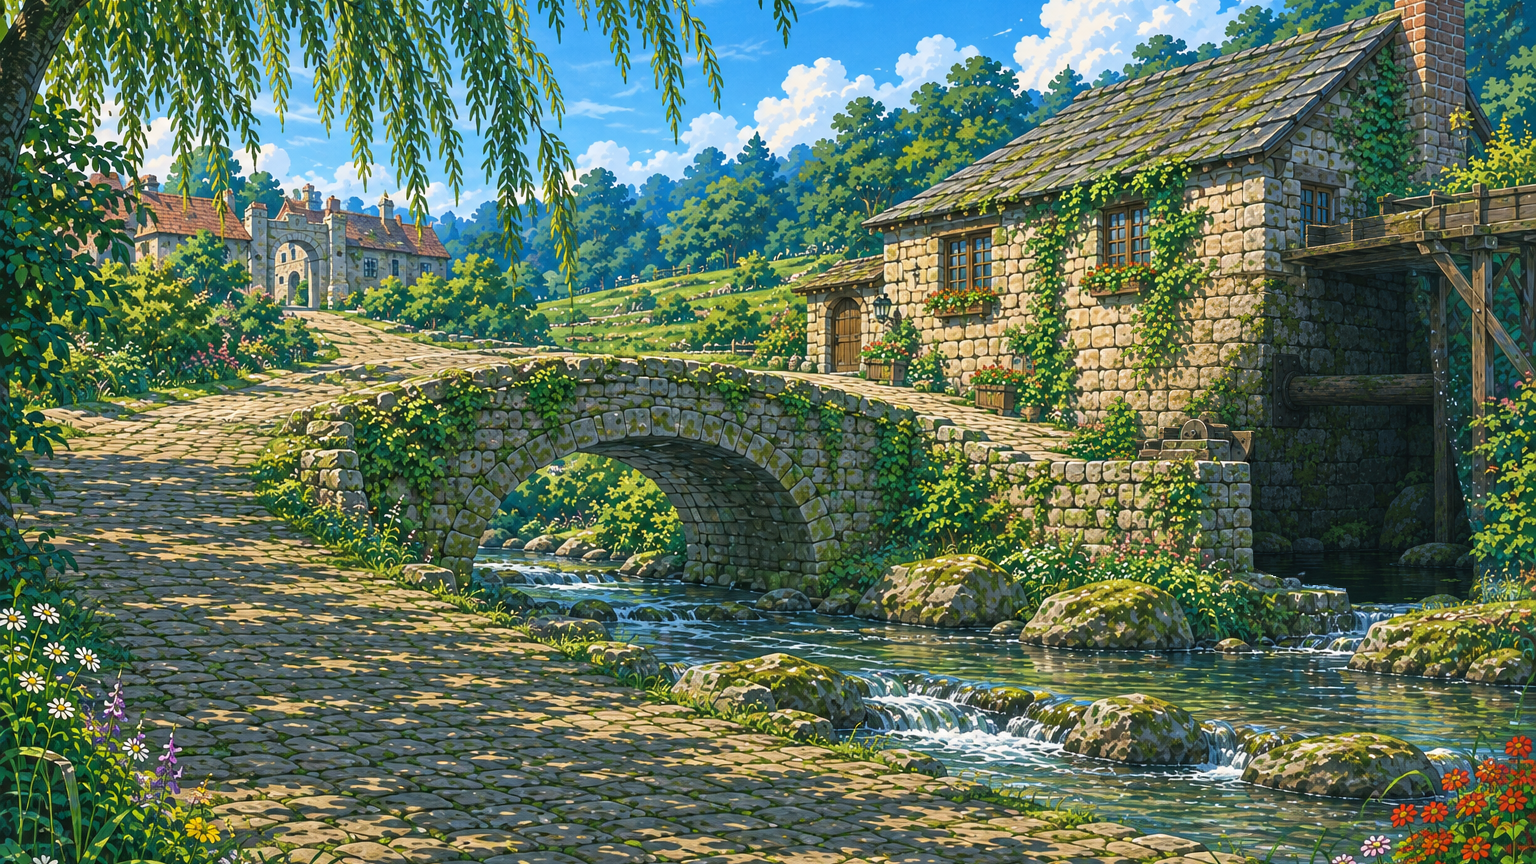
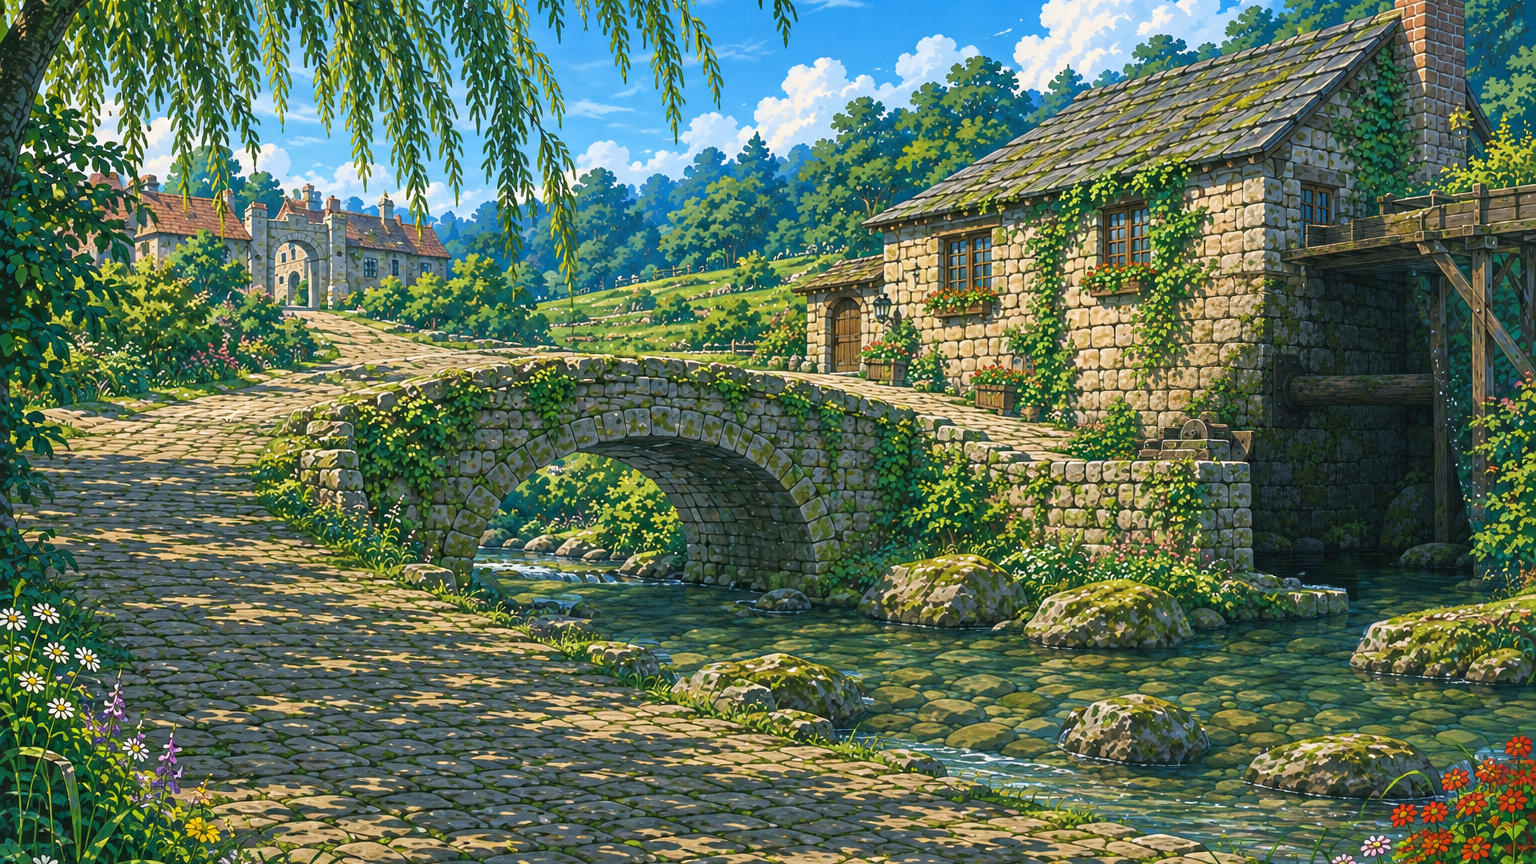
Elderbrook mill: river rebuilt board-style (still bed, flow map, two-phase caustics, glints, foam); no global sway

Changed region(s): [[0.3125, 0.6562, 1.0, 0.9375]]

diff --git a/eb/eb.js b/eb/eb.js
@@ -74,17 +74,25 @@ fxTex.colorSpace = THREE.NoColorSpace; fxTex.generateMipmaps = false; fxTex.minF
 lightTex.colorSpace = THREE.NoColorSpace; lightTex.generateMipmaps = false; lightTex.minFilter = lightTex.magFilter = THREE.LinearFilter;
 plateTex.colorSpace = THREE.SRGBColorSpace; plateTex.minFilter = THREE.LinearFilter; plateTex.generateMipmaps = false;
 depthPng.colorSpace = THREE.NoColorSpace; depthPng.minFilter = depthPng.magFilter = THREE.NearestFilter; depthPng.generateMipmaps = false;
+const river = S.flow ? await fetch(`${base}_river.json`).then(r => r.json()) : null;
+const riverTex = river ? await Promise.all([`${base}_flow.png`, "./plates/water_a.png", "./plates/water_b.png"].map(u => texLoader.loadAsync(u))) : [null, null, null];
+riverTex.forEach((t, i) => { if (!t) return; t.colorSpace = THREE.NoColorSpace; if (i) { t.wrapS = t.wrapT = THREE.RepeatWrapping; } else { t.generateMipmaps = false; t.minFilter = THREE.LinearFilter; } });
 const bgScene = new THREE.Scene(), bgCam = new THREE.OrthographicCamera(-1, 1, 1, -1, 0, 1);
 const bgMat = new THREE.ShaderMaterial({
-  uniforms: { plate: { value: plateTex }, camM: { value: camera.matrixWorld }, camK: { value: new THREE.Vector4(K.width / K.fx, K.height / K.fy, K.cx / K.width, 1 - K.cy / K.height) }, flowOn: { value: S.flow ? 1 : 0 }, flowS: { value: new THREE.Vector4(...(S.flow ? S.flow.stream : [0, 0, 0, 0])) }, flowF: { value: new THREE.Vector4(...(S.flow ? S.flow.fall : [0, 0, 0, 0])) }, fx: { value: fxTex }, light: { value: lightTex }, sky: { value: skyTex }, t: { value: 0 }, depth: { value: depthPng }, near: { value: NEAR }, far: { value: FAR } },
+  uniforms: { plate: { value: plateTex }, flowMap: { value: riverTex[0] }, waterA: { value: riverTex[1] }, waterB: { value: riverTex[2] }, wPlane: { value: new THREE.Vector4(...(river ? river.plane : [0, 1, 0, 0])) }, flowSpeed: { value: river ? river.speed * +(params.get("flow") || 1) : 0 }, wdbg: { value: +(params.get("wdbg") || 0) }, camM: { value: camera.matrixWorld }, camK: { value: new THREE.Vector4(K.width / K.fx, K.height / K.fy, K.cx / K.width, 1 - K.cy / K.height) }, flowOn: { value: S.flow ? 1 : 0 }, flowS: { value: new THREE.Vector4(...(S.flow ? S.flow.stream : [0, 0, 0, 0])) }, flowF: { value: new THREE.Vector4(...(S.flow ? S.flow.fall : [0, 0, 0, 0])) }, fx: { value: fxTex }, light: { value: lightTex }, sky: { value: skyTex }, t: { value: 0 }, depth: { value: depthPng }, near: { value: NEAR }, far: { value: FAR } },
   vertexShader: "varying vec2 vUv; void main(){ vUv = uv; gl_Position = vec4(position.xy, 0.0, 1.0); }",
-  fragmentShader: `uniform sampler2D plate, depth, fx, light, sky; uniform float near, far, t, flowOn; uniform vec4 flowS, flowF, camK; uniform mat4 camM; varying vec2 vUv;
+  fragmentShader: `uniform sampler2D plate, depth, fx, light, sky; uniform float near, far, t, flowOn, flowSpeed, wdbg; uniform vec4 flowS, flowF, camK, wPlane; uniform mat4 camM; uniform sampler2D flowMap, waterA, waterB; varying vec2 vUv;
     float hash(vec2 p){ return fract(sin(dot(p, vec2(127.1, 311.7))) * 43758.5453); }
     float vnoise(vec2 p){ vec2 i = floor(p), f = fract(p); f = f * f * (3.0 - 2.0 * f);
       return mix(mix(hash(i), hash(i + vec2(1.0, 0.0)), f.x), mix(hash(i + vec2(0.0, 1.0)), hash(i + vec2(1.0, 1.0)), f.x), f.y); }
+    // two-phase flow: the texture is carried along the current twice, half a cycle apart, and cross-faded so neither reset is ever seen
+    vec4 flowTex(sampler2D tex, vec2 uv, vec2 flow, float period){
+      float p0 = fract(t / period), p1 = fract(t / period + 0.5);
+      vec4 a = texture2D(tex, uv - flow * (p0 - 0.5) * period), b = texture2D(tex, uv - flow * (p1 - 0.5) * period + vec2(0.37, 0.21));
+      return mix(a, b, abs(p0 - 0.5) * 2.0); }
     void main(){
       // the painting, brought to life with smooth noise (no repeating patterns)
-      vec3 m = texture2D(fx, vUv).rgb; vec2 uv = vUv; vec3 mw = m; m.rg *= 1.0 - flowOn;   // screens with running water handle R/G below
+      vec3 m = texture2D(fx, vUv).rgb; vec2 uv = vUv; vec3 mw = m; m *= 1.0 - flowOn;   // screens with running water handle R/G below
       // plants: whole clumps lean together as gusts cross the square
       float gust = smoothstep(0.25, 0.7, vnoise(vec2(vUv.x * 2.2 - t * 0.3, vUv.y * 1.6 + t * 0.05)));
       vec2 sway = vec2(vnoise(vUv * vec2(9.0, 6.0) + vec2(t * 0.7, 0.0)), vnoise(vUv * vec2(7.0, 9.0) + vec2(5.0 + t * 0.5, t * 0.25))) - 0.5;
@@ -98,35 +106,31 @@ const bgMat = new THREE.ShaderMaterial({
       vec4 col = texture2D(plate, uv);
       col.rgb *= 1.0 + m.r * 0.5 * (vnoise(pp * 0.6 + vec2(t * 1.0, -t * 0.7)) - 0.5);
       col.rgb *= 1.0 + m.g * 1.2 * (vnoise(vec2(vUv.x * 420.0, vUv.y * 34.0 + t * 8.0)) - 0.45);
-      if (flowOn > 0.5 && (mw.r > 0.02 || mw.g > 0.02)) {
-        // Water built in layers on top of the painting, the way hand-painted game boards do it: the painting stays put, and moving
-        // layers (ripples, glints, foam, falling strands) are laid over it through a clean mask.
-        if (mw.r > 0.02) {
-          // where this pixel is on the water's surface in the world, so every layer shrinks into the distance like the stream does
-          vec3 dq0 = floor(texture2D(depth, vUv).rgb * 255.0 + 0.5); float zw = near / max((dq0.r * 65536.0 + dq0.g * 256.0 + dq0.b) / 16777215.0, 1e-6);
-          vec3 wp = (camM * vec4(vec3((vUv.x - camK.z) * camK.x, (vUv.y - camK.w) * camK.y, -1.0) * zw, 1.0)).xyz;
-          vec2 fd = normalize(flowS.xy), pd = vec2(-fd.y, fd.x); float al = dot(wp.xz, fd), ac = dot(wp.xz, pd), sp = flowS.z;
-          al += 0.35 * vnoise(vec2(ac * 0.9, al * 0.5));                                                    // the current bends a little
-          vec2 rip = vec2(vnoise(vec2(ac * 2.6, al * 1.1 - t * sp)), vnoise(vec2(ac * 2.1 + 7.0, al * 0.9 - t * sp * 1.25 + 3.0))) - 0.5;   // (the painting itself is never moved)
-          // 2. long glints sliding downstream, stretched along the current
-          float g1 = vnoise(vec2(ac * 5.5, al * 1.3 - t * sp * 1.6)), g2 = vnoise(vec2(ac * 9.0 + 4.0, al * 2.2 - t * sp * 2.3));
-          float gl = smoothstep(0.60, 0.80, g1 * 0.65 + g2 * 0.35);
-          col.rgb += vec3(0.78, 0.92, 1.0) * gl * 0.20 * flowS.w * mw.r;
-          col.rgb *= 1.0 + mw.r * 0.10 * rip.x;                                                             // soft swells of light and dark
-          // 3. foam: the painted white water churns and streams
-          float lum = dot(col.rgb, vec3(0.3, 0.59, 0.11)), foam = smoothstep(0.45, 0.75, lum) * mw.r;
-          col.rgb *= 1.0 + foam * 0.55 * (vnoise(vec2(ac * 14.0, al * 5.0 - t * sp * 4.5)) - 0.5);
-        }
-        if (mw.g > 0.02) {
-          // the fall: strands that follow its arc and speed up as they drop, plus spray where it lands
-          float s0 = clamp((flowF.y - vUv.y) / (flowF.y - flowF.w), 0.0, 1.0), xc = mix(flowF.x, flowF.z, pow(s0, 0.75));
-          float ac = (vUv.x - xc) * 1280.0 / (18.0 + 46.0 * s0), fallD = pow(s0, 0.6);
-          float n1 = vnoise(vec2(ac * 4.0, fallD * 7.0 - t * 2.4)), n2 = vnoise(vec2(ac * 9.0 + 3.0, fallD * 13.0 - t * 3.6)), n3 = vnoise(vec2(ac * 21.0 + 8.0, fallD * 24.0 - t * 5.2));
-          float w = n1 * 0.5 + n2 * 0.33 + n3 * 0.17;
-          vec3 fallc = texture2D(plate, vUv + vec2((n2 - 0.5) * 0.0022, (n1 - 0.5) * 0.004)).rgb;
-          fallc = fallc * (0.70 + 0.62 * w) + vec3(0.9, 0.96, 1.0) * smoothstep(0.56, 0.82, w) * 0.24;
-          col.rgb = mix(col.rgb, fallc, mw.g);
-        }
+      if (flowOn > 0.5 && (mw.r > 0.01 || mw.g > 0.01)) {
+        // The river (painted-board workflow): a still painted bed, and on top of it layers that are carried along an authored flow map.
+        // Everything is laid out on the water's own plane in the world, so it foreshortens with the stream; the mask keeps it off rocks.
+        vec3 ro = camM[3].xyz, rdir = (camM * vec4((vUv.x - camK.z) * camK.x, (vUv.y - camK.w) * camK.y, -1.0, 0.0)).xyz;
+        float tt = -(dot(wPlane.xyz, ro) + wPlane.w) / dot(wPlane.xyz, rdir); vec2 wxz = ro.xz + rdir.xz * tt;
+        vec4 fm = texture2D(flowMap, vUv); vec2 flow = (fm.rg - 0.5) * 2.0 * fm.b * flowSpeed;                 // world units per second
+        // 1. ripple first: it bends what lies under it (the bed and the caustics), only inside the water mask
+        vec2 rip = (flowTex(waterA, wxz * 0.22, flow, 2.6).gb - 0.5) * 2.0 * mw.r;
+        // 2. the still riverbed, gently refracted; never from a pixel that is not water
+        vec2 ub = vUv + rip * (0.022 / tt); float okb = step(0.85, texture2D(fx, ub).r);
+        vec3 w = mix(col.rgb, texture2D(plate, ub).rgb, okb);
+        // 3. caustics carried by the current, kept low so the painting reads through; brightest on the sunlit shallows
+        float ca = min(flowTex(waterA, wxz * 0.36 + rip * 0.05, flow, 3.4).r, flowTex(waterA, wxz * 0.27 + 0.5 - rip * 0.04, flow * 0.8, 4.1).r * 1.6);
+        w += vec3(1.0, 0.92, 0.75) * ca * 0.25 * (0.5 + 0.5 * mw.b);
+        // 4. glints: sparse sparkles that drift with the water, sunlit water only
+        float gl = flowTex(waterB, wxz * 0.9, flow * 1.15, 1.9).g * (0.6 + 0.8 * flowTex(waterB, wxz * 0.31, flow, 2.3).b);
+        w += vec3(1.0, 0.97, 0.9) * smoothstep(0.25, 0.7, gl) * 0.55 * mw.b;
+        col.rgb = mix(col.rgb, w, mw.r);
+        // 5. foam: painted-looking, laid over (not glowing), in the band round rocks and banks, streaming with the flow
+        float fo = flowTex(waterB, wxz * 0.75, flow * 1.3, 2.2).r;
+        float fo2 = flowTex(waterB, wxz * 0.2 + 0.3, flow * 0.6, 3.1).b;                                       // broad patches, so the foam comes and goes instead of outlining every rock
+        float foam = smoothstep(0.60, 0.80, fo * 0.6 + fo2 * 0.45 + mw.g * 0.12) * smoothstep(0.08, 0.5, mw.g) * (1.0 - smoothstep(0.75, 1.0, mw.g)) * smoothstep(0.15, 0.5, fm.b + 0.2);
+        col.rgb = mix(col.rgb, vec3(0.93, 0.95, 0.94), foam * 0.55);
+        col.rgb = min(col.rgb, 1.0);
+        if (wdbg > 0.5) col.rgb = wdbg < 1.5 ? mw : wdbg < 2.5 ? vec3(fm.rg, fm.b) : wdbg < 3.5 ? vec3(ca) : vec3(foam, gl, 0.0);   // ?wdbg=1 mask, 2 flow, 3 caustics, 4 foam+glints
       }
       // sky: clouds drifting slowly behind the rooftops
       float skyM = texture2D(light, vUv).g;

diff --git a/eb/index.html b/eb/index.html
@@ -47,6 +47,6 @@
 <div id="dialog"><div class="n"></div><div class="x"></div></div>
 <div id="fade"></div>
 <div id="title"><h1>Elderbrook</h1><p>WASD / arrows to walk &nbsp;·&nbsp; Shift to run &nbsp;·&nbsp; E to inspect</p><div class="go" id="go">Loading…</div></div>
-<script type="module" src="./eb.js?v=21"></script>
+<script type="module" src="./eb.js?v=22"></script>
 </body>
 </html>
